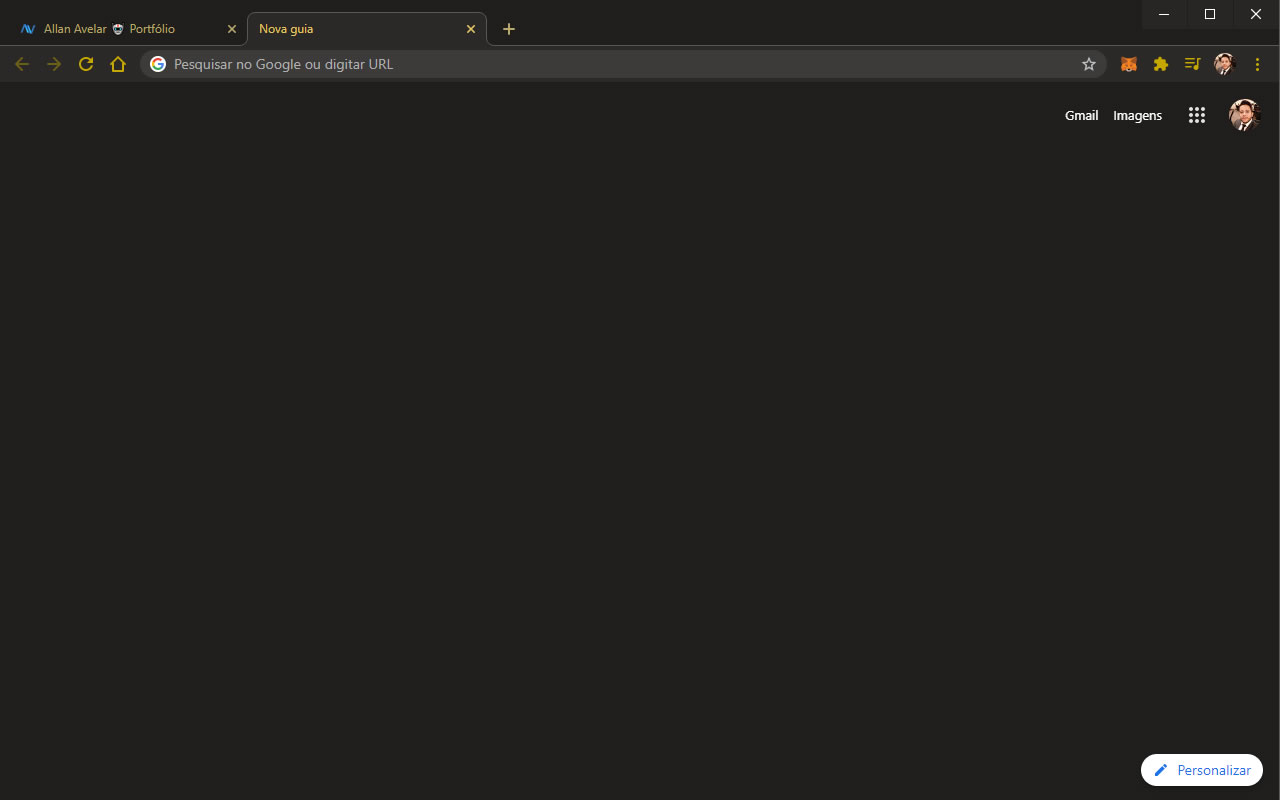
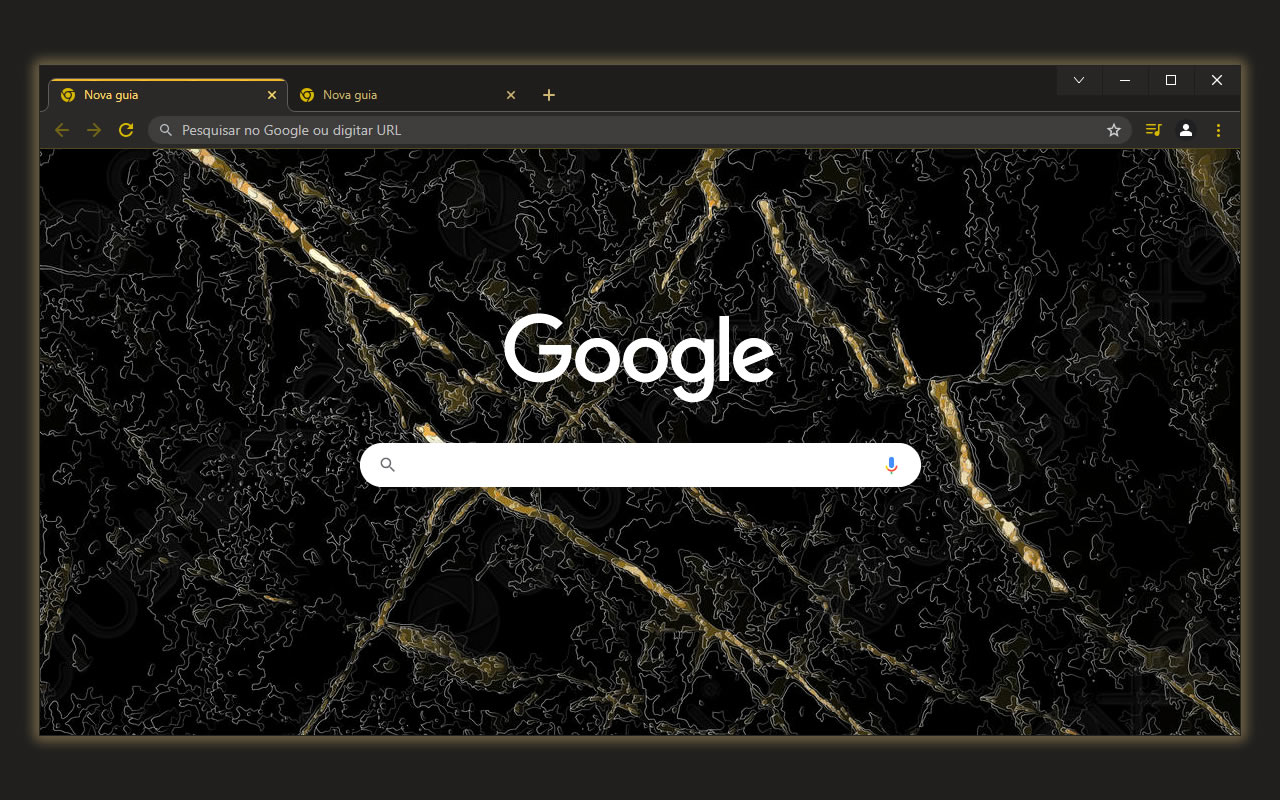
feat: over and active tab highlighting docs: include preview animation style: include new tab background

diff --git a/README.md b/README.md
@@ -1,14 +1,18 @@
-# Allan Avelar | Chrome Theme
+# Allan Avelar | Google Chrome Theme
 
 > This theme is based on my website colors.
 
-### Screenshots:
+## Screenshots
 
 [![Printscreen 1](./images/printscrren-1.jpg)](https://allanavelar.com)
 
 [![Printscreen 2](./images/printscrren-2.jpg)](https://site.allanavelar.com/br/portfolio/)
 
-##### Copyright (C) 2020 Allan Avelar
+With currently active tab highlighting:
+
+![Screenshot-gif](./images/preview.gif)
+
+### Copyright (C) 2020 Allan Avelar
 
   Permission is hereby granted, free of charge, to any person obtaining a copy of this software and associated documentation files (the "Software"), to deal in the Software without restriction, including without limitation the rights to use, copy, modify, merge, publish, distribute, sublicense, and/or sell copies of the Software, and to permit persons to whom the Software is furnished to do so, subject to the following conditions:
 
